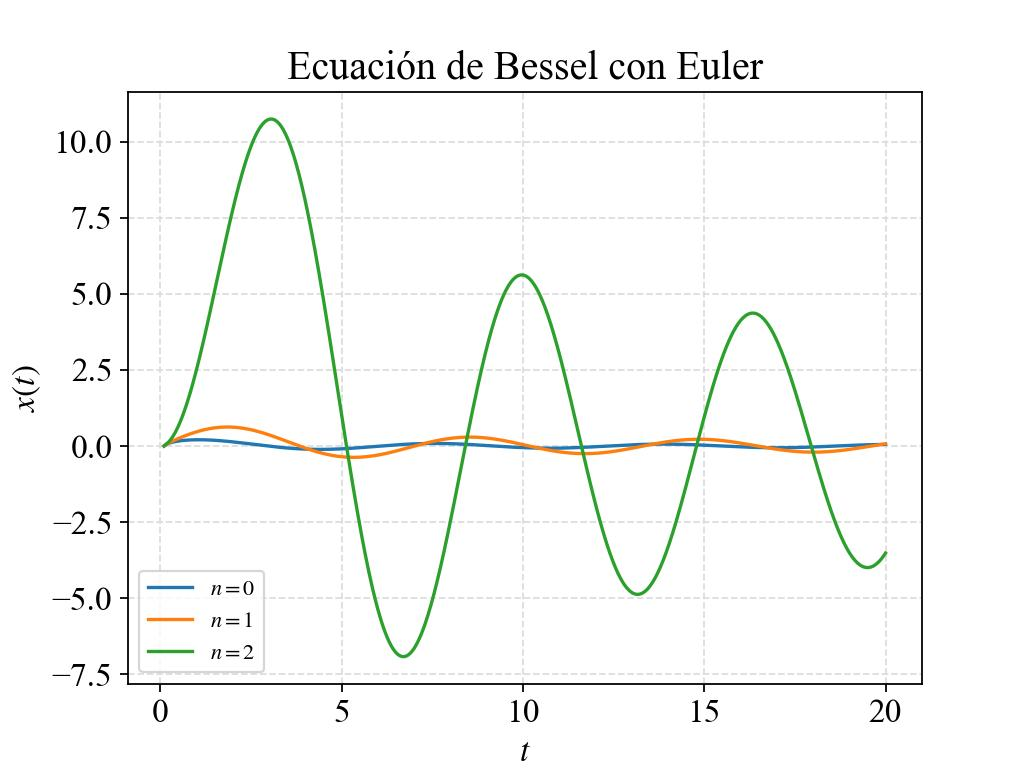
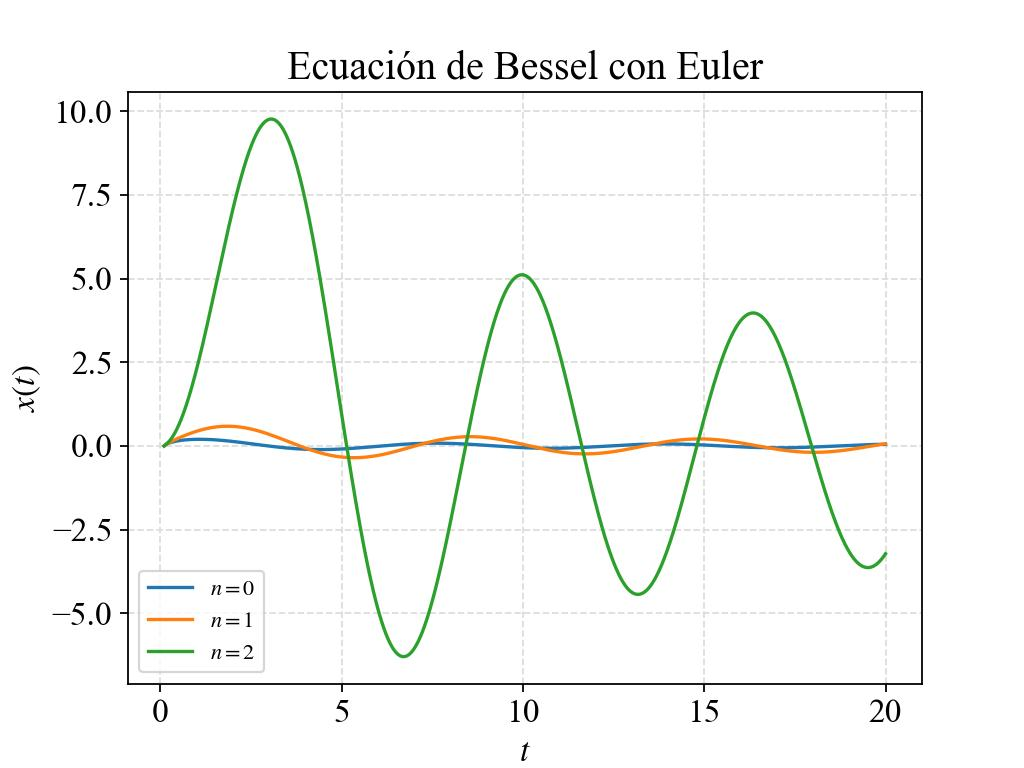
Graph changes

diff --git a/multi_euler.py b/multi_euler.py
@@ -59,7 +59,7 @@ def main():
 	plt.grid(linestyle="--", color="#ddd")
 
 	for n in range(0, 3):
-		tiempos, valores_x, valores_y = metodo_euler(t0 = 0.1, tfinal = 20, N = 1000, x0 = 0, y0 = 1, f = Bessel_Generator(n))
+		tiempos, valores_x, valores_y = metodo_euler(t0 = 0.1, tfinal = 20, N = 100000, x0 = 0, y0 = 1, f = Bessel_Generator(n))
 		ax.plot(tiempos, valores_x, label = f"$n = {n}$")
 
 	# tiempos_scipy = linspace(-10, 2.5, 1000)
